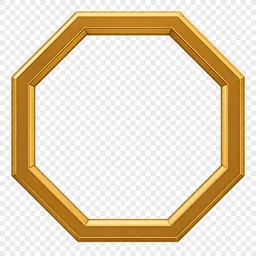
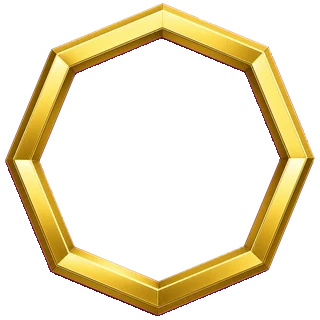
feat(arena): beveled gold crown rim asset on stage (v2.5.661)
True-alpha rim outside the stage clip; thin under-stroke so the bevel reads like the reference.

diff --git a/static/js/arena_render.js b/static/js/arena_render.js
@@ -1087,11 +1087,14 @@
 
   function drawFloorCrown(layer, cx, cy, radius, center) {
     var assets = global.ARENA_CROWN_ASSETS || {};
-    // Same clip as .arena-stage (#arena-clip-0-0) — marble/glyph are inscribed
-    // in the centre octagon like chef avatars in ring cells, not a free rectangle.
-    var group = el('g', {
+    // Rim sits outside the stage clip so the outer bevel is not shaved off.
+    // Pad / glyph / text stay clipped to #arena-clip-0-0 like cell avatars.
+    var stack = el('g', {
       class: 'arena-floor-crown',
-      'pointer-events': 'none',
+      'pointer-events': 'none'
+    });
+    var group = el('g', {
+      class: 'arena-floor-crown__inner',
       'clip-path': 'url(#arena-clip-0-0)'
     });
     var size = radius * 2;
@@ -1143,8 +1146,24 @@
       class: 'arena-floor-crown__name'
     });
     group.appendChild(name);
-    // Append before measuring — getComputedTextLength needs a live SVG text node.
-    layer.appendChild(group);
+    stack.appendChild(group);
+
+    if (assets.rim) {
+      // Slightly larger than the stage so the outer bevel reads outside the
+      // marble edge; hollow centre is transparent over the clipped pad.
+      var rimSize = radius * 2.18;
+      stack.appendChild(el('image', {
+        href: assets.rim,
+        x: (cx - rimSize / 2).toFixed(2),
+        y: (cy - rimSize / 2).toFixed(2),
+        width: rimSize.toFixed(2),
+        height: rimSize.toFixed(2),
+        preserveAspectRatio: 'xMidYMid meet',
+        class: 'arena-floor-crown__rim'
+      }));
+    }
+
+    layer.appendChild(stack);
     fitCrownName(
       name,
       (center && center.name) || '',

diff --git a/templates/chef_battle/_arena_render_ring.html b/templates/chef_battle/_arena_render_ring.html
@@ -189,10 +189,10 @@ window.ARENA_CROWD_FACES = [
 ];
 </script>
 
-<link href="{% static 'css/arena_render.css' %}?v=20260728-crown-align" rel="stylesheet">
+<link href="{% static 'css/arena_render.css' %}?v=20260728-crown-rim-bevel" rel="stylesheet">
 
 <script src="{% static 'js/arena_geometry.js' %}?v=20260727-pointy-top"></script>
 <script src="{% static 'js/octagon_floor_template.js' %}?v=20260727-sponsors-1to1"></script>
 <script src="{% static 'js/arena_deck.js' %}?v=20260727-furniture"></script>
 <script src="{% static 'js/arena_battle_room.js' %}?v=20260725-loadpurge"></script>
-<script src="{% static 'js/arena_render.js' %}?v=20260728-crown-name-scale"></script>
+<script src="{% static 'js/arena_render.js' %}?v=20260728-crown-rim-bevel"></script>

diff --git a/static/css/arena_atmosphere.css b/static/css/arena_atmosphere.css
@@ -895,9 +895,11 @@
 }
 
 .page--arena #arena-render .arena-stage[data-state="crown"] {
+  /* Beveled gold rim is the crown-octagon-rim asset; stage stroke is a thin
+     under-line only so parchment seams do not flash white through the bevel. */
   fill: color-mix(in srgb, var(--ink) 55%, #1f2c25) !important;
-  stroke: var(--accent-bronze) !important;
-  stroke-width: 5 !important;
+  stroke: color-mix(in srgb, var(--accent-bronze) 55%, transparent) !important;
+  stroke-width: 1.2 !important;
   paint-order: stroke fill;
 }
 

diff --git a/templates/chef_battle/arena.html b/templates/chef_battle/arena.html
@@ -14,7 +14,7 @@
 <link href="{% static 'css/arena_hall.css' %}?v=20260727-tilt42" rel="stylesheet">
 {# polish then atmosphere: deck chrome first; page-level hall underlay / kill rules last #}
 <link href="{% static 'css/arena_deck_polish.css' %}?v=20260727-tilt42-back" rel="stylesheet">
-<link href="{% static 'css/arena_atmosphere.css' %}?v=20260728-crown-rim" rel="stylesheet">
+<link href="{% static 'css/arena_atmosphere.css' %}?v=20260728-crown-rim-bevel" rel="stylesheet">
 {% endblock %}
 
 {% block content %}

diff --git a/static/css/arena_render.css b/static/css/arena_render.css
@@ -513,9 +513,10 @@
   text-transform: uppercase;
 }
 
-/* Crown holder — marble+glyph clipped to stage octagon; gold rim = stage stroke. */
+/* Crown holder — marble+glyph clipped; beveled rim sits outside the clip. */
 #arena-render .arena-floor-crown__pad,
-#arena-render .arena-floor-crown__glyph {
+#arena-render .arena-floor-crown__glyph,
+#arena-render .arena-floor-crown__rim {
   pointer-events: none;
 }
 #arena-render .arena-floor-crown__label {

diff --git a/templates/base.html b/templates/base.html
@@ -430,7 +430,7 @@
             </div>
             <div class="footer-legal">
                 <span>&copy; 2026 Bearcave Limited. All rights reserved.</span>
-                <span class="footer-version">v2.5.660</span>
+                <span class="footer-version">v2.5.661</span>
             </div>
         </div>
     </div>
